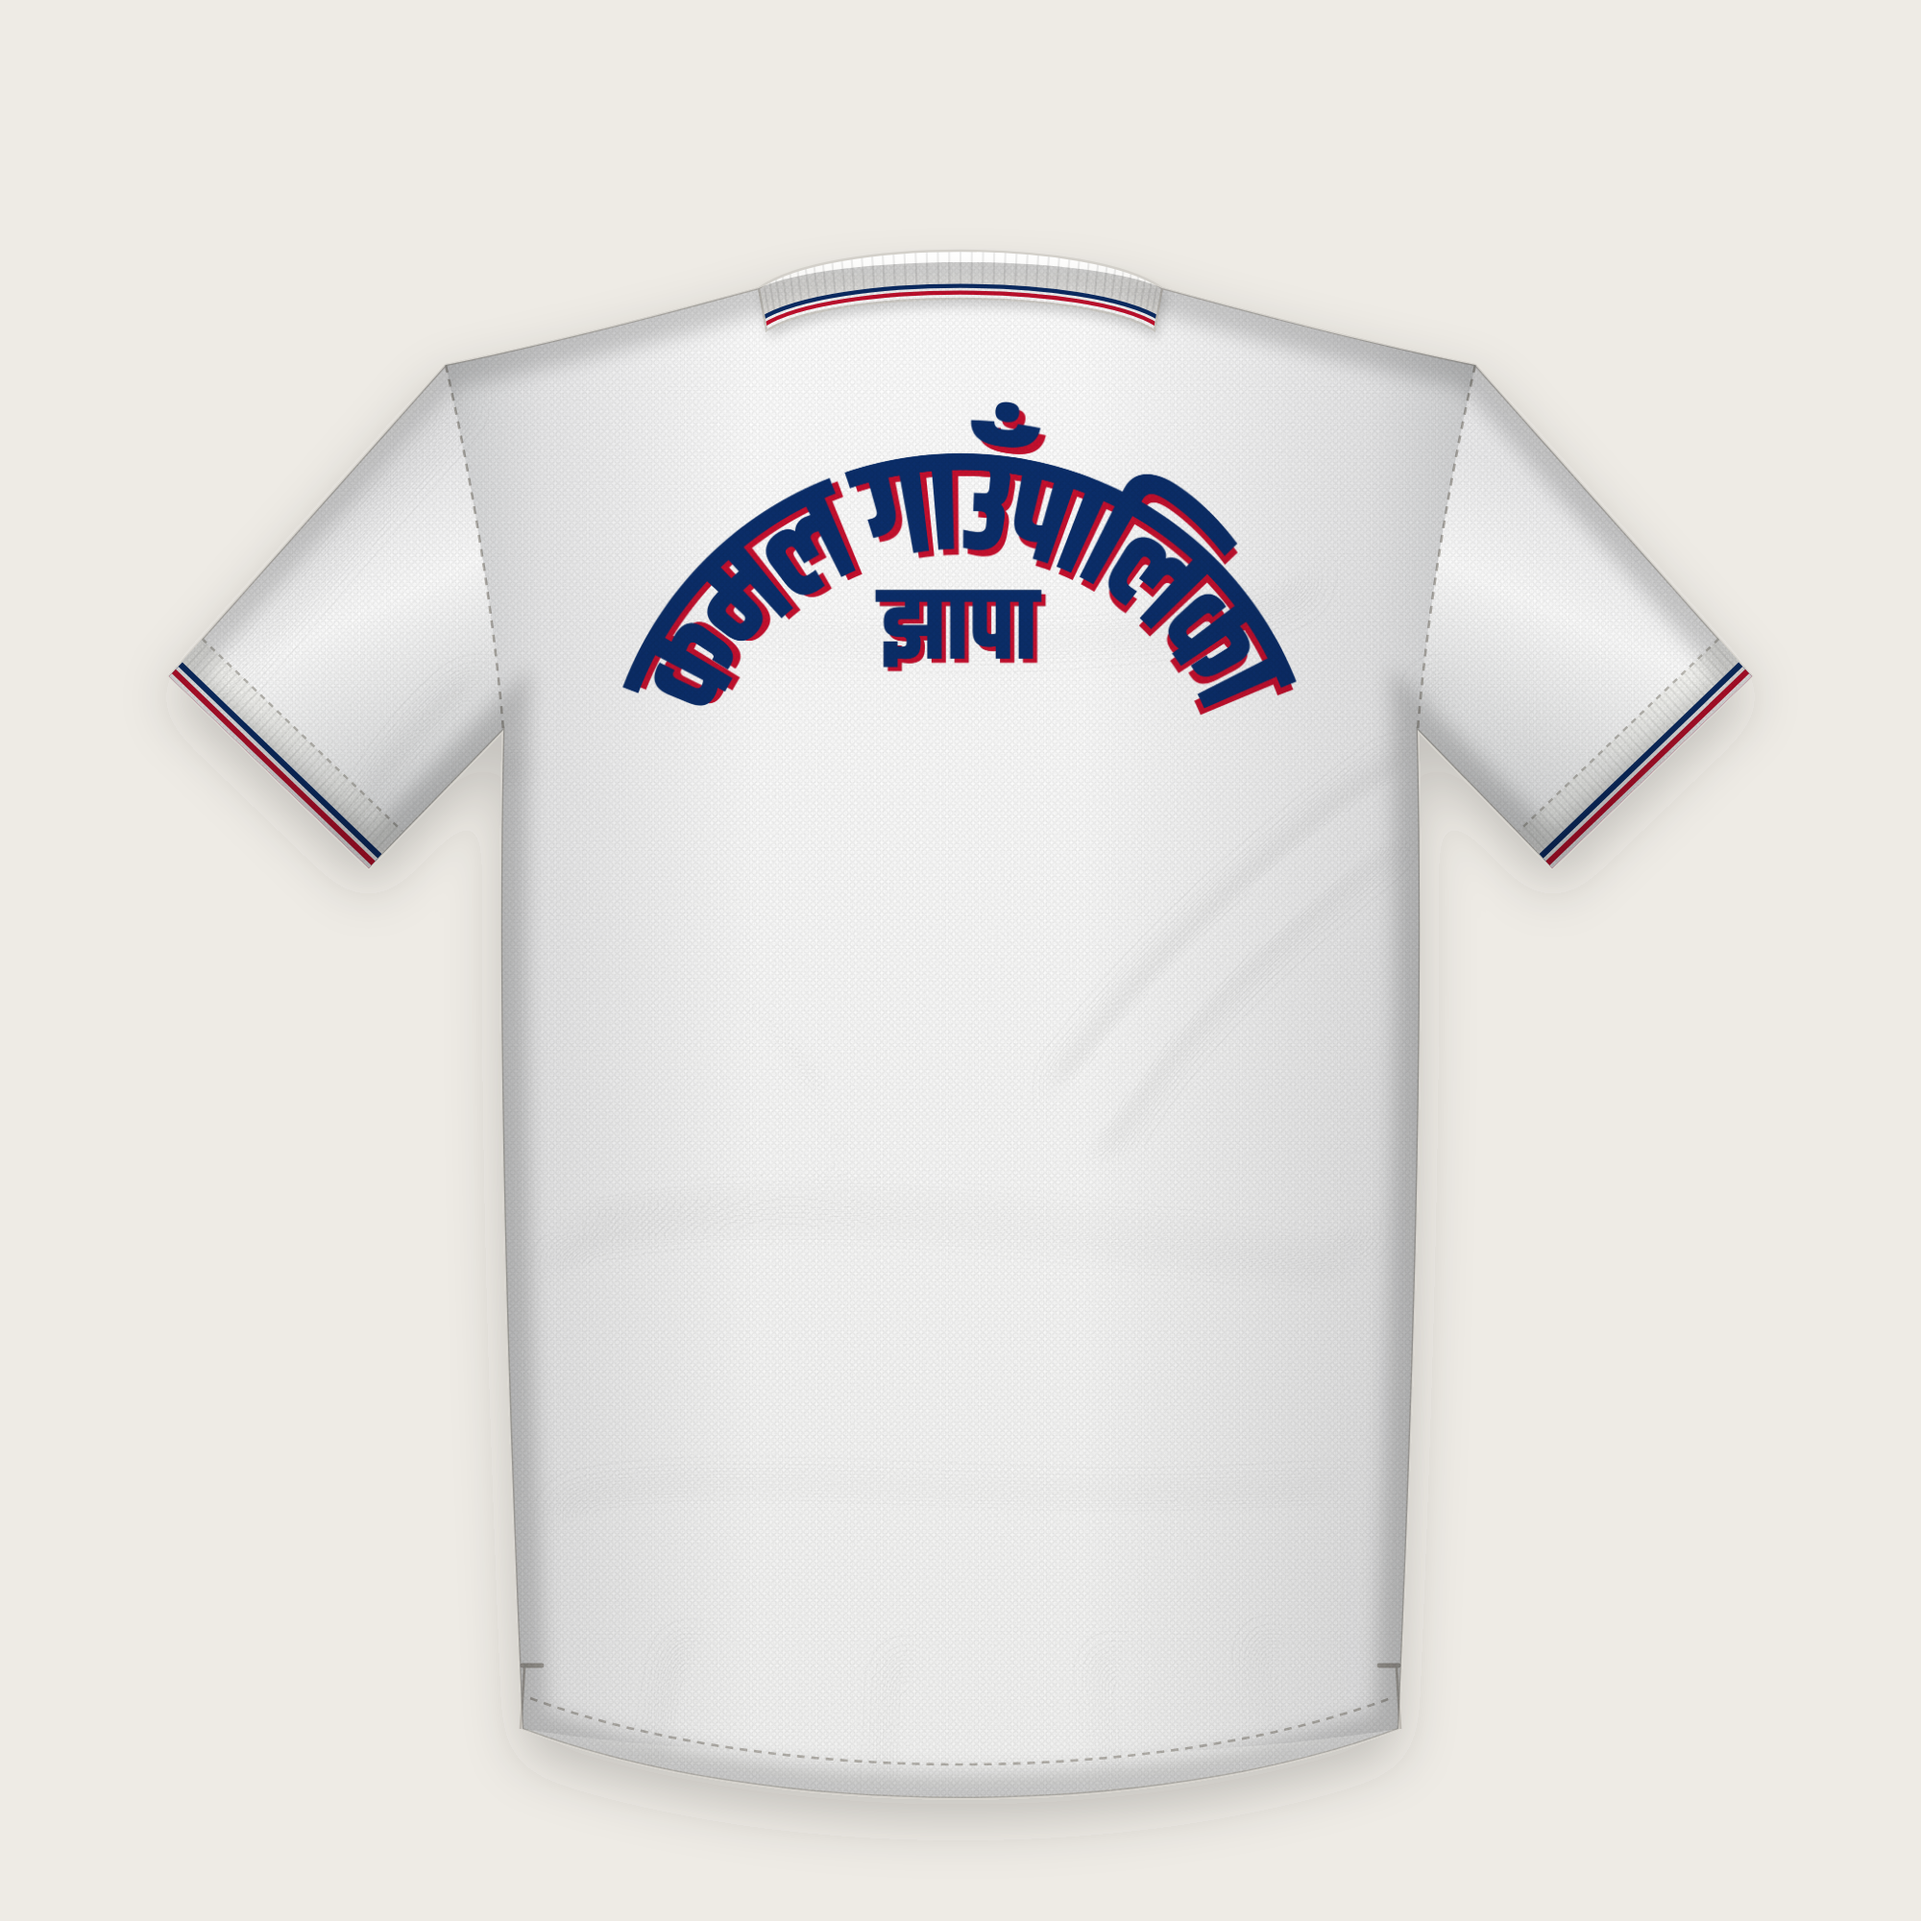
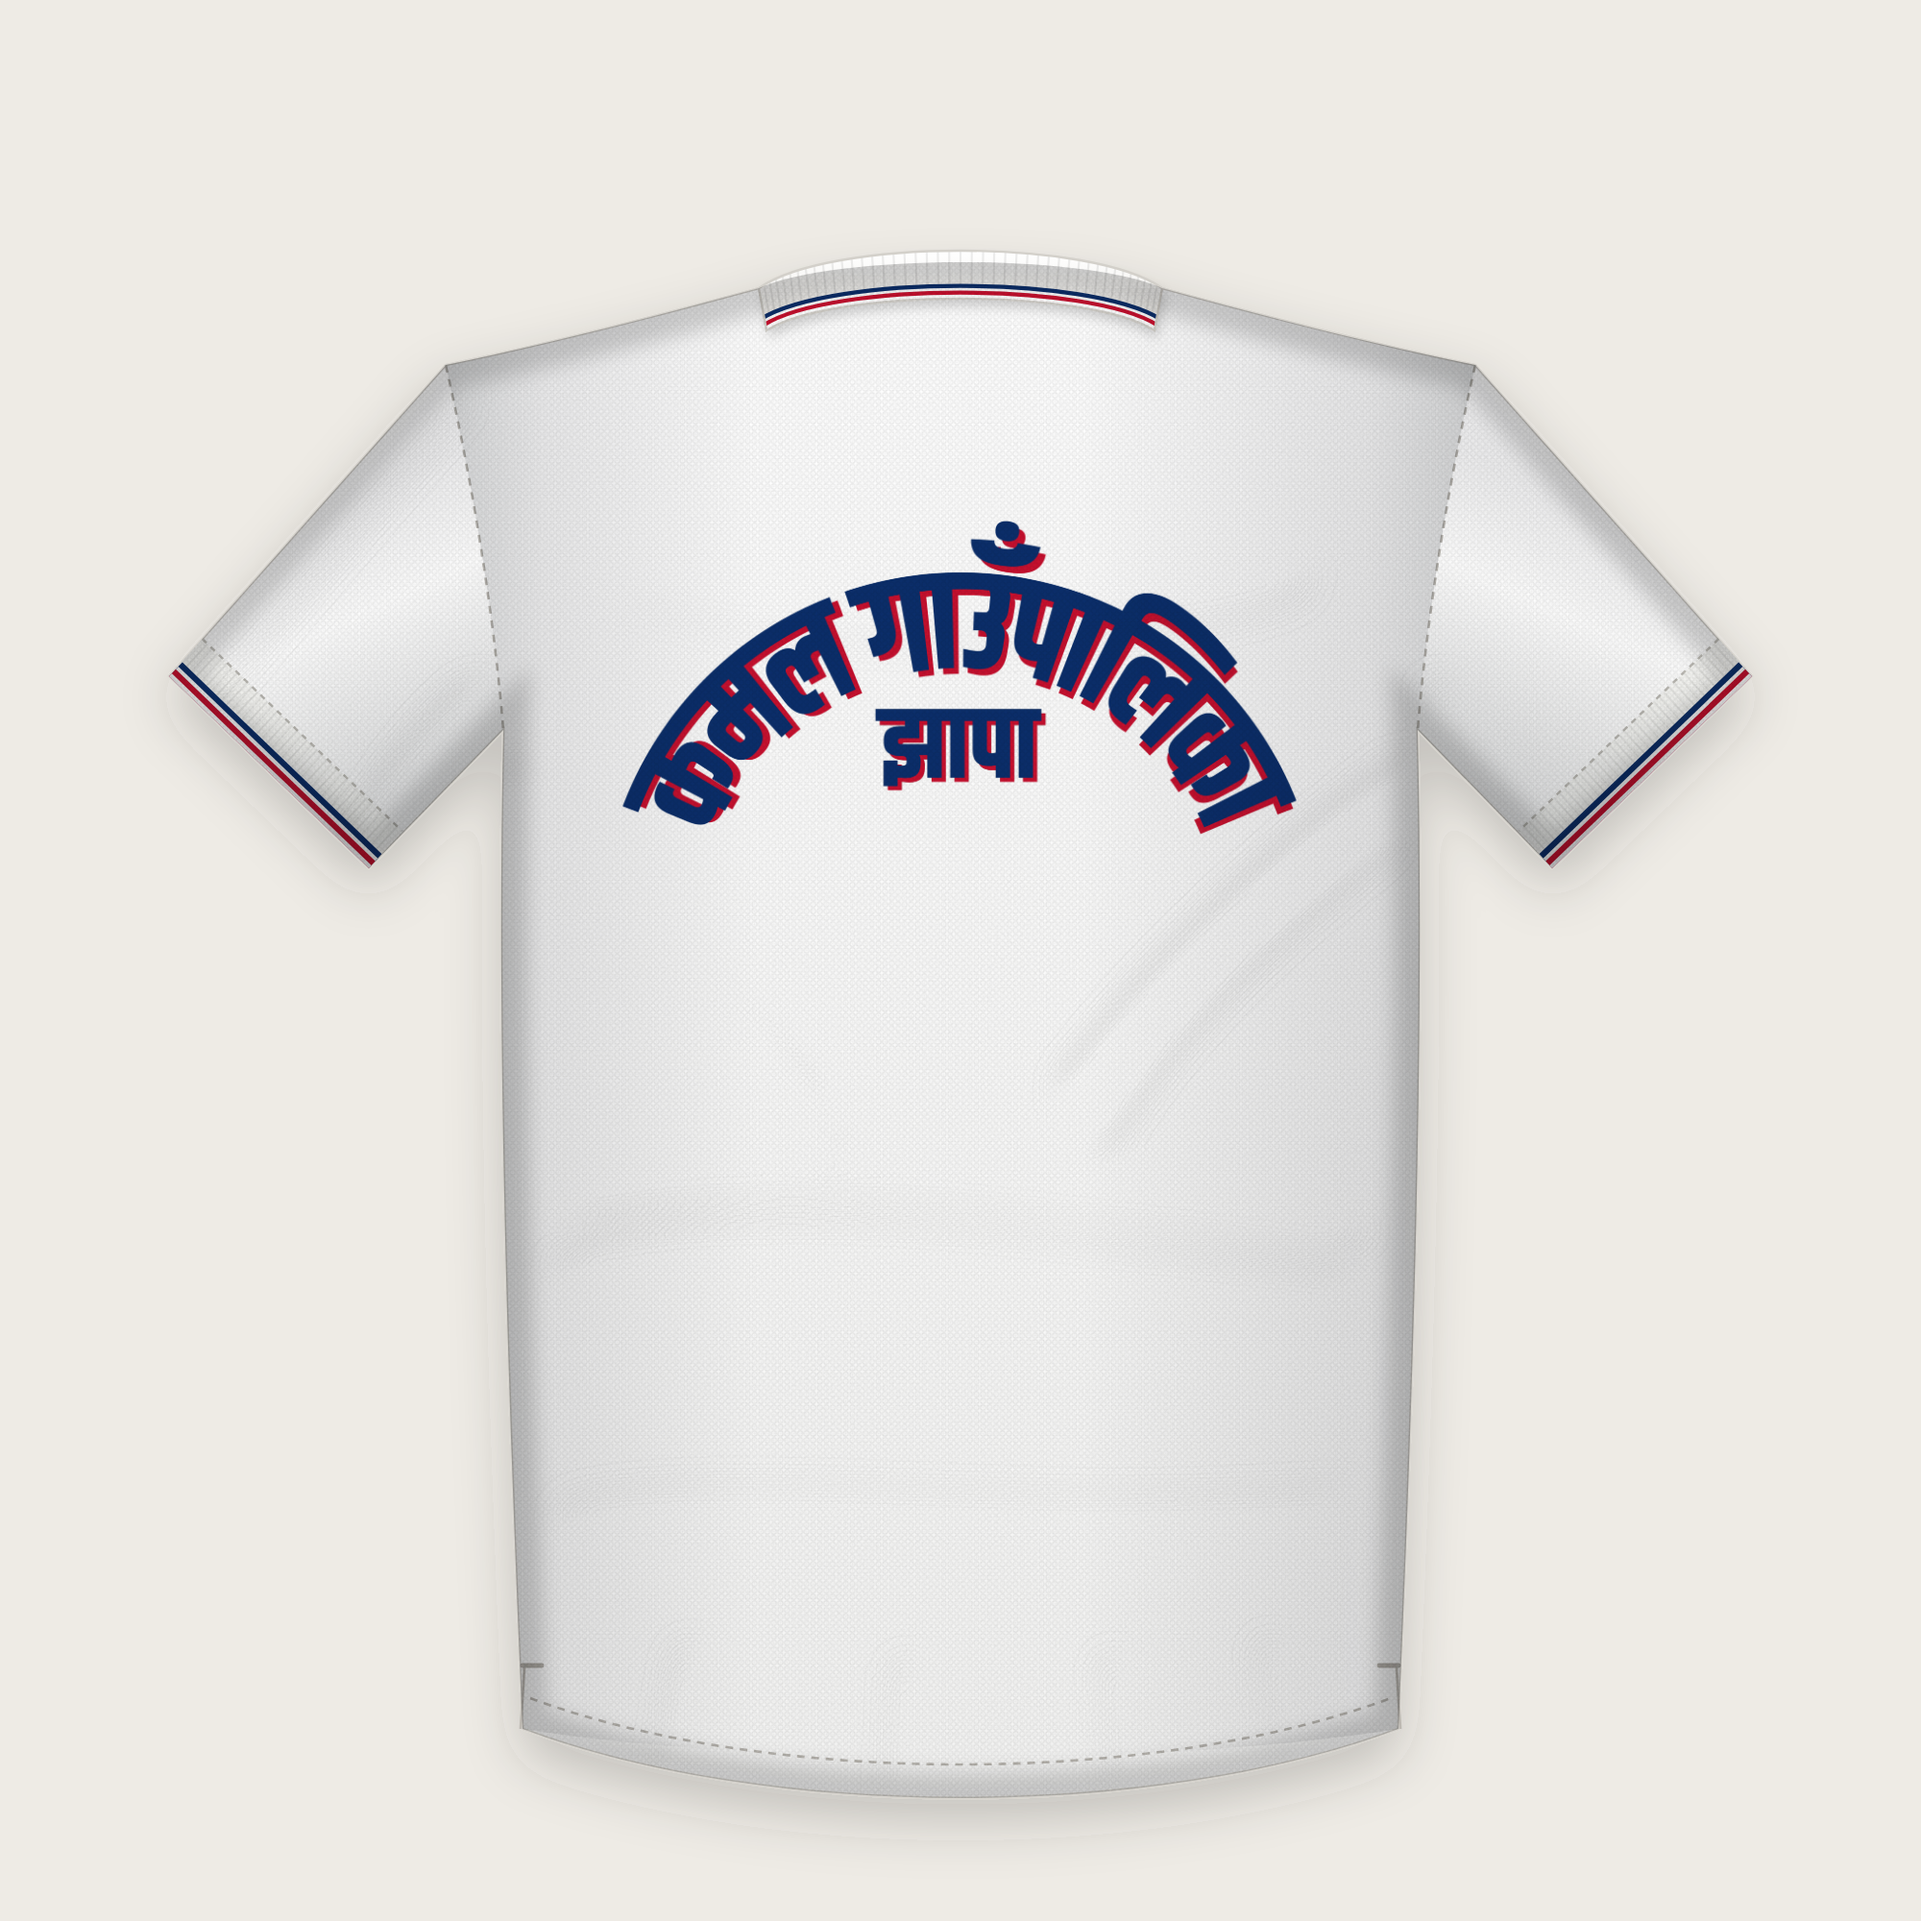
Set the jersey's back lettering in the upper middle of the back
The arch with झापा sits across the shoulder blades, its top about 11 cm
below the collar rather than just under it.

Claude-Session: https://claude.ai/code/session_01L3hZmj9oe8Yfp8ZvHXW3mm

Changed region(s): [[0.31, 0.217, 0.682, 0.434]]

diff --git a/media/jersey/make_jersey.py b/media/jersey/make_jersey.py
@@ -81,7 +81,7 @@ VIEW = (1000, 1000)
 CREST_AT, CREST_W = (632, 432), 112       # the logo's centre and width on the front (the left chest)
 STAR_AT, STAR_R = (632, 340), 38          # the star's centre and outer radius, above it
 ARCH = 140                                # the back name's arch, in degrees of the circle
-NAME_TOP, NAME_W = 206, 410               # where the arched name's top sits on the back, and its width
+NAME_TOP, NAME_W = 268, 410               # the arched name's top (the upper middle of the back), and its width
 PLACE = "झापा"                             # under the name, inside its arch
 
 

diff --git a/media/jersey/README.md b/media/jersey/README.md
@@ -51,7 +51,8 @@ out as printed arch lettering does.
   shoulder seam. `logo.png` is at about 280 dpi at this size.
 - **Star.** Centred about 1.5 cm above the logo, about 5 cm across.
 - **Back.** The arch is about 30 cm wide and 12.5 cm high, centred, with
-  झापा inside it. Its top sits about 8 cm below the collar.
+  झापा inside it, in the upper middle of the back: its top sits about
+  11 cm below the collar.
   `print-back-name.png` is at about 280 dpi at this size.
 - **Buttons.** Gold metal shank buttons, about 15 mm.
 - **Method.** The faceted gold star, its glow and the logo's colours print
